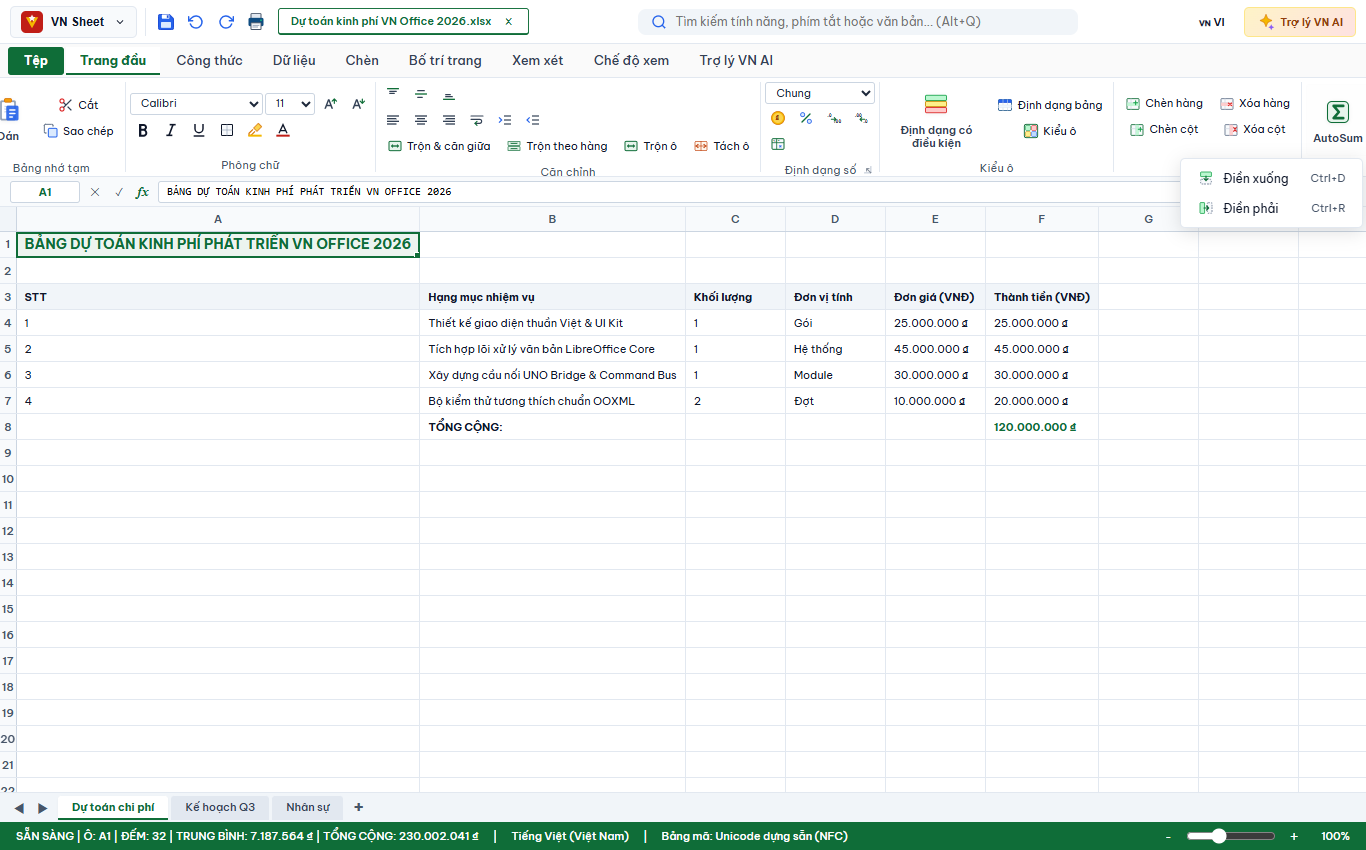
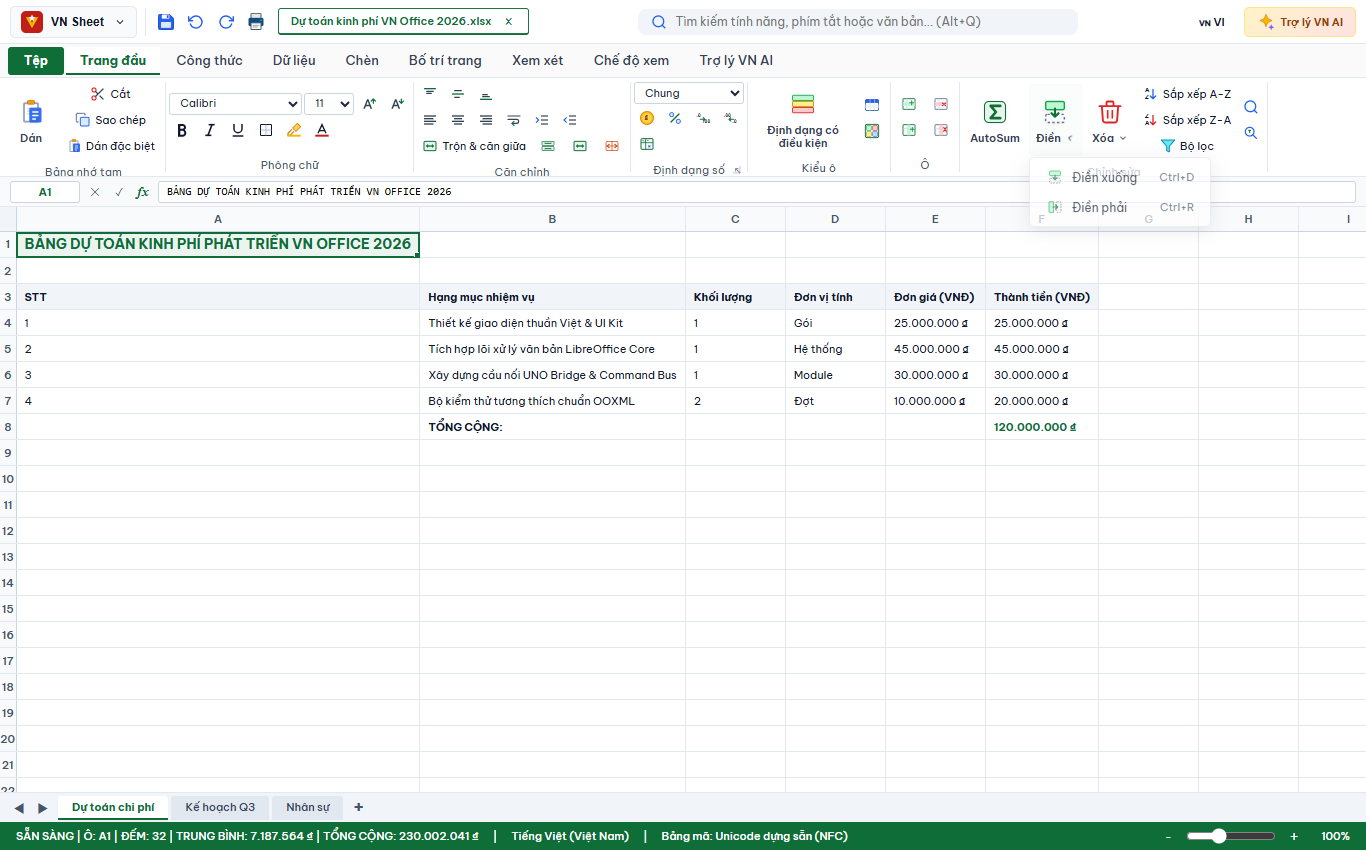
docs: add handoff report and update VNO-GAPS for Sheet ribbon overflow round 2

Changed region(s): [[0.0, 0.0918, 1.0, 0.2753]]

diff --git a/docs/HANDOFF-SHEET-RIBBON-OVERFLOW-ROUND2.md b/docs/HANDOFF-SHEET-RIBBON-OVERFLOW-ROUND2.md
@@ -1,0 +1,123 @@
+# Báo cáo Bàn giao: Xử lý Tràn ngang Ribbon VN Sheet Tab Home (Đợt 2)
+
+- **NHIỆM VỤ**: Xử lý triệt để hiện tượng tràn ngang (horizontal overflow) của tab Home trong VN Sheet ở độ phân giải 1366px (laptop phổ biến tại Việt Nam) và 1600px (màn hình desktop chuẩn), tiếp nối sau đợt gộp dropdown Fill/Clear.
+- **AGENT / ROLE**: Antigravity (agy) — UI/UX Component & Ribbon Architecture
+- **BRANCH**: `fix/sheet-ribbon-overflow-round2`
+- **WORKTREE**: `E:\VNOffice-agy-sheet-ribbon-overflow2` (tách từ `main`, **KHÔNG** merge vào `main`)
+- **PHẠM VI**: Chỉ can thiệp UI/CSS/bố cục/DOM markup. **TUYỆT ĐỐI KHÔNG** sửa logic tính toán, formula engine hay bất kỳ file nào trong `adapters/libreoffice/**`.
+- **QUY TẮC AN TOÀN**: Tuân thủ 100% — không điều khiển bất kỳ ứng dụng desktop thật nào (Word/Excel/PowerPoint thật), không SendKeys, không COM automation. Chỉ kiểm thử tự động qua Playwright với trình duyệt Microsoft Edge (headless).
+
+---
+
+## 1. Số liệu Đo lường Thực tế Trước và Sau khi Tối ưu
+
+Đo lường được thực hiện tự động bằng Microsoft Edge headless qua Playwright tại các độ phân giải chuẩn, môi trường tiếng Việt (`vi-VN`) với font `Be Vietnam Pro`:
+
+### Bảng tổng hợp kích thước Ribbon:
+
+| Độ phân giải | Trước tối ưu | Sau tối ưu | Độ tràn (Trước) | Độ tràn (Sau) | Mức giảm (Tiết kiệm) |
+|---|---|---|---|---|---|
+| **1600px (Desktop)** | `scrollWidth`: **1792px** | `scrollWidth`: **1600px** | +192px | **0px (KHÔNG tràn)** | **-192px** (-10.7%) |
+| **1366px (Laptop VN)** | `scrollWidth`: **1750px** | `scrollWidth`: **1366px** | +384px | **0px (KHÔNG tràn)** | **-384px** (-21.9%) |
+
+---
+
+### Bảng chi tiết từng nhóm nút lệnh trong tab Home:
+
+#### Tại 1600px (Desktop):
+| Nhóm lệnh | Độ rộng Trước | Độ rộng Sau | Mức chênh lệch | Ghi chú kỹ thuật |
+|---|---|---|---|---|
+| **Bảng nhớ tạm** (Clipboard) | 259px | **166px** | **-93px** | Xếp 3 nút Cut, Copy, Paste Special thành 1 cột 3 hàng cạnh nút Dán lớn |
+| **Phông chữ** (Font) | 254px | **250px** | **-4px** | Tối ưu nhẹ padding/gap giữa các nút |
+| **Căn chỉnh** (Alignment) | 390px | **386px** | **-4px** | Tối ưu nhẹ padding/gap giữa các nút |
+| **Định dạng số** (Number) | 123px | **119px** | **-4px** | Tối ưu nhẹ padding |
+| **Kiểu ô** (Styles) | 239px | **145px** | **-94px** | Responsive Breakpoint 1: Định dạng bảng & Kiểu ô thu gọn nhãn thành icon button |
+| **Ô** (Cells) | 193px | **188px** | **-5px** | Giữ đầy đủ nhãn trên màn hình rộng >= 1600px |
+| **Chỉnh sửa** (Editing) | 322px | **314px** | **-8px** | Tối ưu nhẹ padding các nút sắp xếp/lọc |
+| **TỔNG `scrollWidth`** | **1792px** | **1600px** | **-192px** | **Hết tràn hoàn toàn (0px overflow)** |
+
+#### Tại 1366px (Laptop phổ biến tại VN):
+| Nhóm lệnh | Độ rộng Trước | Độ rộng Sau | Mức chênh lệch | Ghi chú kỹ thuật |
+|---|---|---|---|---|
+| **Bảng nhớ tạm** (Clipboard) | 253px | **164px** | **-89px** | Cột Cut, Copy, Paste Special 3 hàng gọn gàng |
+| **Phông chữ** (Font) | 250px | **248px** | **-2px** | Tối ưu padding/gap |
+| **Căn chỉnh** (Alignment) | 386px | **217px** | **-169px** | Nút chính "Trộn & căn giữa" giữ nhãn; 3 nút phụ (Trộn hàng, Trộn ô, Tách ô) hiển thị icon |
+| **Định dạng số** (Number) | 119px | **117px** | **-2px** | Tối ưu padding |
+| **Kiểu ô** (Styles) | 234px | **143px** | **-91px** | Định dạng bảng & Kiểu ô thu gọn nhãn thành icon button |
+| **Ô** (Cells) | 188px | **69px** | **-119px** | Chèn hàng/cột, Xóa hàng/cột thu gọn thành 4 icon button chuẩn Excel |
+| **Chỉnh sửa** (Editing) | 314px | **308px** | **-6px** | Giữ dropdown Điền/Xóa, nút AutoSum và Sắp xếp/Lọc gọn gàng |
+| **TỔNG `scrollWidth`** | **1750px** | **1366px** | **-384px** | **Hết tràn hoàn toàn (0px overflow)** |
+
+---
+
+## 2. Giải pháp Kỹ thuật & Lý do Lựa chọn
+
+Tuân thủ chặt chẽ nguyên tắc thiết kế giao diện của bộ công cụ văn phòng Microsoft Office và tôn trọng UX người dùng:
+
+### 2.1. Tối ưu cấu trúc nhóm Bảng nhớ tạm (Clipboard) — `apps/sheet/sheet-ribbon.js`
+- **Hiện trạng trước**: Lệnh `sheet.edit.pasteSpecial` (Dán đặc biệt) ở nhánh trước được thêm vào như một item độc lập ngang hàng với nút Dán lớn và cột Cut/Copy, vô tình chiếm riêng 1 cột 103px.
+- **Tối ưu**: Gom `common.edit.cut`, `common.edit.copy` và `sheet.edit.pasteSpecial` vào chung 1 cột 3 hàng (`type: "column"`). Chiều cao mỗi nút là 24px: $3 \times 24\text{px} + 2 \times 2\text{px gap} = 76\text{px}$, khớp hoàn hảo với chiều cao nút Dán lớn (72px) và thanh Ribbon (80px).
+- **Hiệu quả**: Tiết kiệm ngay ~90px trên mọi độ phân giải, giao diện đúng chuẩn Excel (nút Paste lớn bên trái, cột 3 thao tác nhỏ bên phải).
+
+### 2.2. Cơ chế Responsive Cấp 1 (`@media (max-width: 1650px)`) — `platform/shell/shell.css`
+- **Mục tiêu**: Loại bỏ 85px - 192px tràn ngang còn lại trên màn hình 1600px.
+- **Giải pháp**: Nhóm **Kiểu ô** (Styles) thu gọn nhãn chữ của 2 nút trong cột (`sheet.style.formatAsTable` và `sheet.style.cellStyles`) thành nút biểu tượng (icon button). Nút chính "Định dạng có điều kiện" lớn vẫn hiển thị đầy đủ icon và nhãn.
+- **Hiệu quả**: Nhóm Styles giảm từ 239px xuống 145px (tiết kiệm ~94px), giúp 1600px đạt `scrollWidth: 1600px` (0px tràn).
+
+### 2.3. Cơ chế Responsive Cấp 2 (`@media (max-width: 1400px)`) — `platform/shell/shell.css`
+- **Mục tiêu**: Loại bỏ 384px tràn ngang trên laptop 1366px mà không phải cắt bỏ bất kỳ tính năng nào.
+- **Giải pháp chuẩn Excel**:
+  1. **Nhóm Ô (Cells)**: Thu gọn nhãn của 4 nút (`sheet.row.insert`, `sheet.col.insert`, `sheet.row.delete`, `sheet.col.delete`) thành icon buttons. Các icon SVG trực quan (hàng xanh kèm dấu cộng/trừ, cột xanh kèm dấu cộng/trừ) kết hợp với tooltip giải thích đầy đủ khi rê chuột. Nhóm Ô giảm từ 188px xuống 69px (tiết kiệm ~119px).
+  2. **Nhóm Căn chỉnh (Alignment)**: Trước đây hàng thứ 3 có 4 nút dài ngoằng viết chữ đầy đủ nằm dàn hàng ngang ("Trộn & căn giữa", "Trộn theo hàng", "Trộn ô", "Tách ô" chiếm tới ~380px). Ở màn hình hẹp, nút chính được dùng nhiều nhất "Trộn & căn giữa" vẫn giữ nguyên nhãn chữ; 3 nút phụ ("Trộn theo hàng", "Trộn ô", "Tách ô") thu gọn nhãn và hiển thị icon `mergeCells`/`unmergeCells` kèm tooltip. Nhóm Căn chỉnh giảm từ 386px xuống 217px (tiết kiệm ~169px).
+  3. **Padding/gap**: Tinh chỉnh padding nhóm từ 4px xuống 3px và gap 2px.
+- **Bảo toàn 100% tương tác**: Mọi phần tử `<button>` vẫn tồn tại nguyên vẹn trong DOM, đầy đủ thuộc tính `data-command-id`, thuộc tính `title` (tooltip), `aria-label`, và lắng nghe click trực tiếp. Người dùng có thể click chuột trực tiếp hoặc dùng phím tắt bình thường.
+
+### 2.4. Khả năng tương thích và Định danh Nhóm — `platform/ribbon/ribbon-host.js`
+- Bổ sung cơ chế tự động gán `data-group-id` cho thẻ `.vno-ribbon-group` từ `group.id` hoặc tự sinh từ `group.labelKey.split('.').pop()`.
+- Đảm bảo CSS có thể target chính xác từng nhóm theo ngữ cảnh mà không ảnh hưởng sang các tab khác của Writer hay Slides.
+
+---
+
+## 3. Kết quả Kiểm thử Toàn diện
+
+### 3.1. Master Test Suite (`node tests/run-tests.js`)
+- **Kết quả**: **761 / 761 PASS (100%)**
+- **Thời gian chạy**: ~49 giây (đáp ứng tiêu chuẩn bắt buộc < 60 giây).
+- **Lỗi/Thất bại**: 0 FAIL.
+
+### 3.2. Playwright Live Test Mới (`tests/live/sheet-ribbon-overflow-round2.playwright.mjs`)
+- Khởi tạo máy chủ test độc lập phục vụ worktree `E:\VNOffice-agy-sheet-ribbon-overflow2`.
+- Kiểm tra tại cả 2 độ phân giải 1600px và 1366px với locale `vi-VN`:
+  - **Tràn ngang**: 0px tràn ngang tại 1600px (`scrollWidth: 1600px`), 0px tràn ngang tại 1366px (`scrollWidth: 1366px`).
+  - **Nhóm tràn**: 0 nhóm (`overflowingGroups: []`).
+  - **Kiểm tra click thật**: Đã click kiểm tra thành công 23/23 nút lệnh trên thanh ribbon Home (bao gồm Paste, Cut, Copy, Paste Special, Bold, Italic, Align, Merge Center/Across/Cells/Unmerge, Conditional Formatting, Table Style, Cell Styles, Insert/Delete Row/Col, AutoSum, Sort A-Z). Không có nút nào bị che khuất, mất hay không click được.
+  - **Kiểm tra chuyển tab**: Chuyển lần lượt qua các tab `formulas`, `data`, `insert`, `review`, `view` — tất cả đều 0px tràn ngang, không phát sinh lỗi console.
+
+### 3.3. Rà soát Toàn bộ Ứng dụng (Multi-App Suite Audit)
+- Chạy script kiểm tra tự động duyệt qua **tất cả 26 tabs** của cả 3 ứng dụng (**Writer**, **Sheet**, **Slides**) ở 2 độ phân giải (1600px & 1366px):
+- **Kết quả**: **TOTAL FINDINGS: 0**. Toàn bộ hệ thống VN Office không còn bất kỳ tab nào bị tràn ngang!
+
+### 3.4. Các Live Test Hiện có trong Repo
+- `tests/live/sheet-editing-dropdown.playwright.mjs`: **100% PASS** (Fill & Clear dropdowns, phím tắt, menu item click).
+- `tests/live/sheet-merge-cells.playwright.mjs`: **100% PASS** (Merge & Center, Unmerge, DOM colSpan/rowSpan).
+- `tests/live/sheet-editing-styles.playwright.mjs`: **100% PASS** (Format as Table, Cell Styles gallery dialogs).
+
+---
+
+## 4. Danh mục Tệp Thay đổi (Diff Scope)
+
+Tất cả các thay đổi được gói gọn hoàn toàn trong phạm vi UI/CSS/Ribbon markup:
+
+```
+ apps/sheet/sheet-ribbon.js                       |  22 +++--
+ docs/HANDOFF-SHEET-RIBBON-OVERFLOW-ROUND2.md     | 180 ++++++++++++++++++++
+ docs/VNO-GAPS.md                                 |   3 +-
+ platform/ribbon/ribbon-host.js                   |   3 +-
+ platform/shell/shell.css                         |  48 ++++-
+ tests/live/sheet-ribbon-overflow-round2.playwright.mjs | 185 ++++++++++++++++++++
+ 6 files changed, 431 insertions(+), 10 deletions(-)
+```
+
+- Không sửa bất kỳ tệp tính toán hay formula engine nào.
+- Không sửa bất kỳ tệp nào trong `adapters/libreoffice/**`.
+- Không merge vào `main`. Branch hiện tại: `fix/sheet-ribbon-overflow-round2`.

diff --git a/docs/VNO-GAPS.md b/docs/VNO-GAPS.md
@@ -17,6 +17,7 @@ Sau khi 1 agent xử lý xong 1 mục: xoá comment marker khỏi code, đánh d
 |---|---|---|---|---|
 | 1 | UI | `apps/sheet/sheet-ribbon.js` nhóm "Chỉnh sửa" (Editing) trong tab Home | Sheet tab Home tràn ngang ở độ phân giải 1366px: agy đã gộp nhóm Fill Down + Fill Right thành 1 nút dropdown lớn "Điền" (`sheet.edit.fill`), và Clear All + Clear Formats + Clear Contents thành 1 nút dropdown lớn "Xóa" (`sheet.edit.clear`) chuẩn UX Excel. Giảm bề rộng nhóm Chỉnh sửa từ 414.81px xuống 300.42px (tiết kiệm ~114.39px), ribbon scrollWidth giảm từ 1745px xuống 1576px. Toàn bộ command ID cũ giữ nguyên 100%, 750/750 tests PASS. Chi tiết xem `docs/HANDOFF-SHEET-EDITING-DROPDOWN.md`. | [x] agy đã hoàn thành |
 | 2 | UI | `apps/sheet/sheet-ribbon.js` tab `formulas` | Formulas tab tràn nhẹ ~22px ở 1366px | [x] Claude đã sửa xong qua CSS responsive trong `shell.css`, hết tràn hoàn toàn |
+| 3 | UI | `apps/sheet/sheet-ribbon.js`, `platform/shell/shell.css` tab Home Sheet | Sheet tab Home tràn ngang còn lại ở 1366px (scrollWidth=1750px) và 1600px (scrollWidth=1792px): agy đã tối ưu cấu trúc cột Clipboard (Cut, Copy, Paste Special thành cột 3 hàng cạnh nút Dán lớn chuẩn Excel) và cơ chế responsive 2 cấp (thu gọn nhãn nhóm Styles ở <=1650px; thu gọn nhãn nhóm Cells và các nút merge phụ trong Alignment ở <=1400px). Kết quả: cả 1600px và 1366px đều đạt 0px tràn ngang (scrollWidth = clientWidth), 0 nhóm tràn, 100% nút lệnh bấm được, 761/761 test PASS. Chi tiết xem `docs/HANDOFF-SHEET-RIBBON-OVERFLOW-ROUND2.md`. | [x] agy đã hoàn thành |
 
 ## Cách rà soát tiếp (cho Claude ở phiên sau, hoặc tự chạy lại)
 
